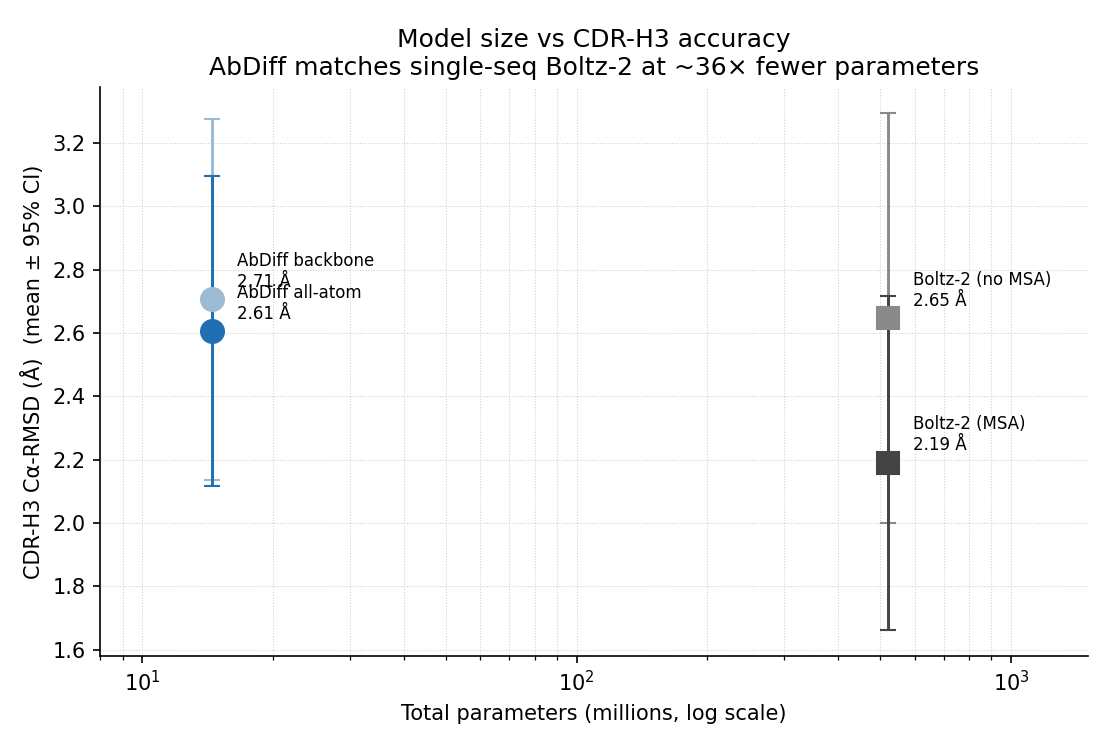
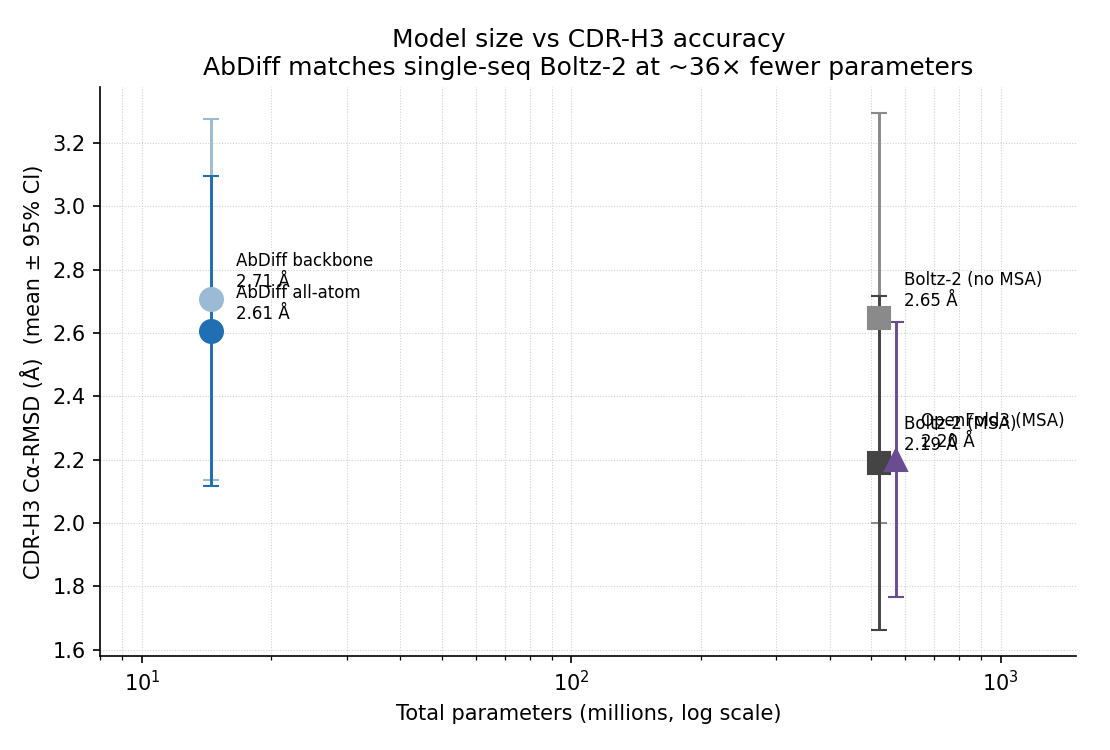
Add OpenFold3 baseline (CDR-H3 2.20 A, 571M): two MSA folders agree ~2.2 A
OpenFold3 ran after disabling its incompatible DeepSpeed evoformer_attn JIT kernel
(vanilla attention; same weights). 30/30 folded, best-of-5. Boltz-2 (2.19) and OF3 (2.20)
agree on CDR-H3, both ~520-570M+MSA; AbDiff single-seq 2.61 ~ Boltz no-MSA 2.65 at 14.5M.
All figures (per-CDR, CDR-H3, params-vs-RMSD) now include OF3.

diff --git a/scripts/make_compare.py b/scripts/make_compare.py
@@ -13,6 +13,7 @@ LAB = ["Framework", "CDR1", "CDR2", "CDR3", "CDR-L3", "CDR-H3"]
 # (label, per-example JSON, color) — JSON schema {fmt: {region: [vals]}}
 SOURCES = [
     ("Boltz-2 (MSA)",          "boltz_perregion.json", "#444444"),
+    ("OpenFold3 (MSA)",        "of3_perregion.json",   "#6a4c93"),
     ("Boltz-2 (no MSA)",       "boltz_ss_perregion.json", "#8a8a8a"),
     ("AbDiff all-atom (ours)", "aa_perexample.json",   "#1f6fb2"),
     ("AbDiff backbone (ours)", "indist_perexample.json", "#9bbbd4"),
@@ -109,6 +110,7 @@ def fig_params_vs_rmsd():
         ("AbDiff all-atom",   "aa_perexample.json",      14.5e6, "#1f6fb2", "o"),
         ("Boltz-2 (no MSA)",  "boltz_ss_perregion.json", 521e6,  "#8a8a8a", "s"),
         ("Boltz-2 (MSA)",     "boltz_perregion.json",    521e6,  "#444444", "s"),
+        ("OpenFold3 (MSA)",   "of3_perregion.json",      571e6,  "#6a4c93", "^"),
     ]
     fig, ax = plt.subplots(figsize=(7.4, 5.0))
     for lab, fj, par, col, mk in pts:

diff --git a/README.md b/README.md
@@ -112,10 +112,11 @@ All models scored with the **identical** protocol (framework-superpose → per-C
 | **CDR-H3** | **2.30** | **2.78** | **2.70** | **3.11** |
 | **overall CDR-H3** | **2.19** | **2.65** | **2.61** | **2.71** |
 
-**The fair comparison:** remove MSAs from Boltz-2 and it lands at **2.65 Å CDR-H3** — statistically
-tied with AbDiff all-atom (**2.61 Å**, overlapping 95% CIs). Boltz-2's MSAs are worth ~0.46 Å on H3
-(2.65 → 2.19). So in the **single-sequence regime AbDiff is on par with Boltz-2**, at 14.5M params and
-no MSA. (AbDiff backbone → all-atom + training: 2.99 → 2.61 Å.)
+**The fair comparison.** Two SOTA MSA folders agree on CDR-H3 — **Boltz-2 = 2.19 Å, OpenFold3 = 2.20 Å**
+(both ~520–570M params, both with MSAs). Strip MSAs from Boltz-2 and it drops to **2.65 Å**, statistically
+tied with **AbDiff all-atom (2.61 Å, overlapping 95% CIs)**. So in the **single-sequence regime, AbDiff
+matches Boltz-2** — at **14.5M params (~36–40× smaller)** and no MSA. The MSA is worth ~0.45 Å on H3.
+(AbDiff backbone → all-atom + training: 2.99 → 2.61 Å.) Per-CDR + per-example 95% CIs in the figures above.
 The harness (`abdiff/eval/bench_*`, `score_boltz.py`) scores any folder identically; **OpenFold3**
 (weights on disk, `--use_msa_server`) is being added; **ESMFold** is blocked by cross-env deps.
 